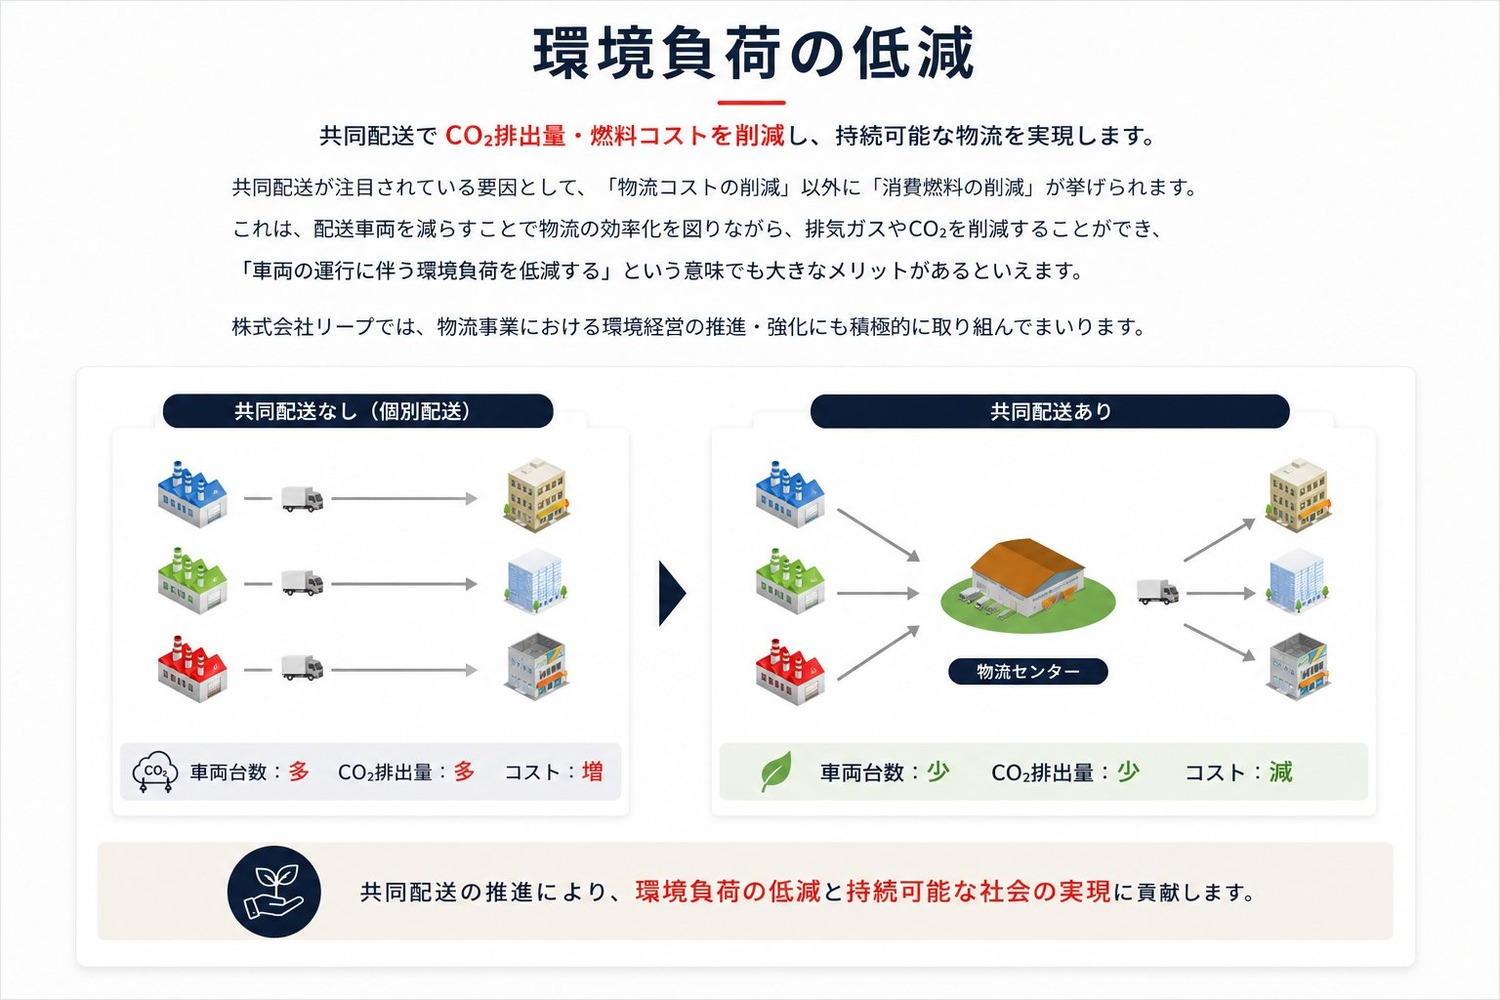
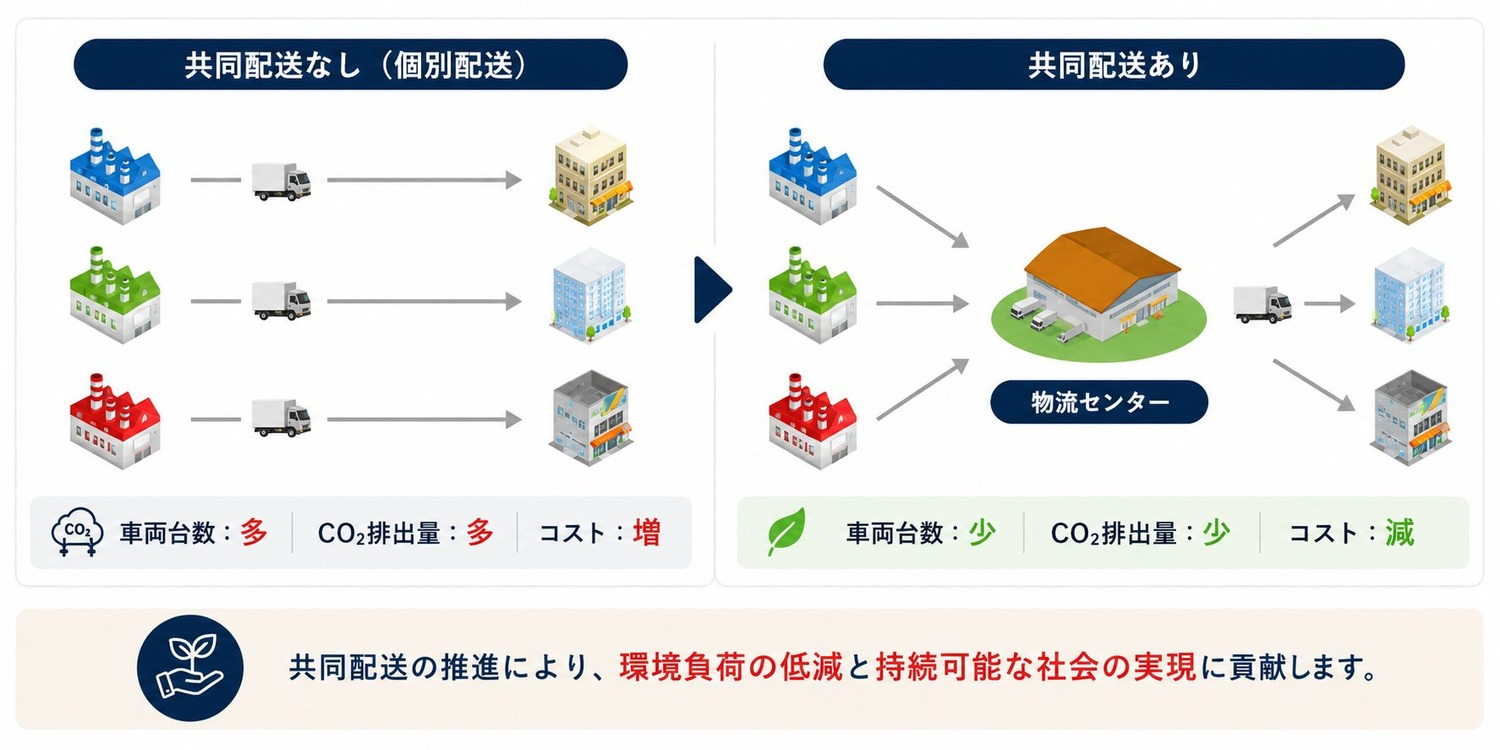
feat: 共同配送ページの環境負荷の低減図解を差し替え（横長の比較図版、キャッシュバスト付き）

diff --git a/delivery.html b/delivery.html
@@ -165,7 +165,7 @@
       <p>共同配送が注目される要因として、「物流コストの削減」以外に「消費燃料の削減」が挙げられます。配送車両を減らすことで物流の効率化を図りながら、排気ガスやCO₂を削減でき、「車両の運行に伴う環境負荷を低減する」という意味でも大きなメリットがあります。</p>
       <p>株式会社リープでは、物流事業における環境経営の推進・強化にも積極的に取り組んでまいります。</p>
       <div class="svc-diagram">
-        <img src="/assets/real-diagram-eco.jpg" alt="環境負荷の低減：共同配送なし（個別配送）は車両台数が多くCO2排出量・コストが増えるのに対し、共同配送ありは物流センター経由で車両台数が少なくCO2排出量・コストを削減できる" loading="lazy">
+        <img src="/assets/real-diagram-eco.jpg?v=2" alt="環境負荷の低減：共同配送なし（個別配送）は車両台数が多くCO2排出量・コストが増えるのに対し、共同配送ありは物流センター経由で車両台数が少なくCO2排出量・コストを削減できる" loading="lazy">
         <p class="svc-diagram-cap">▲ 共同配送なし（個別配送）と共同配送ありの比較 — 車両台数・CO₂排出量・コストを削減できます。</p>
       </div>
     </div>
